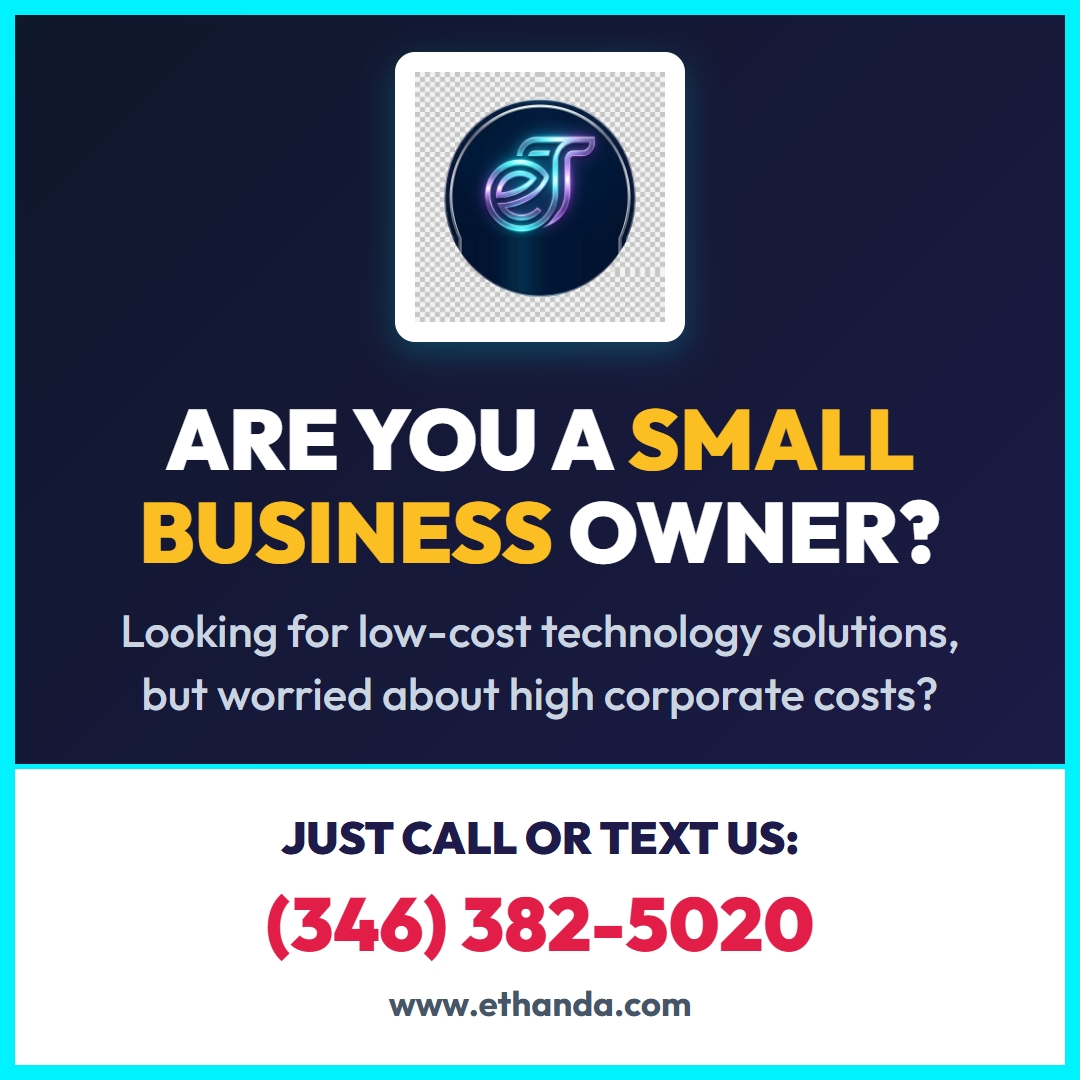
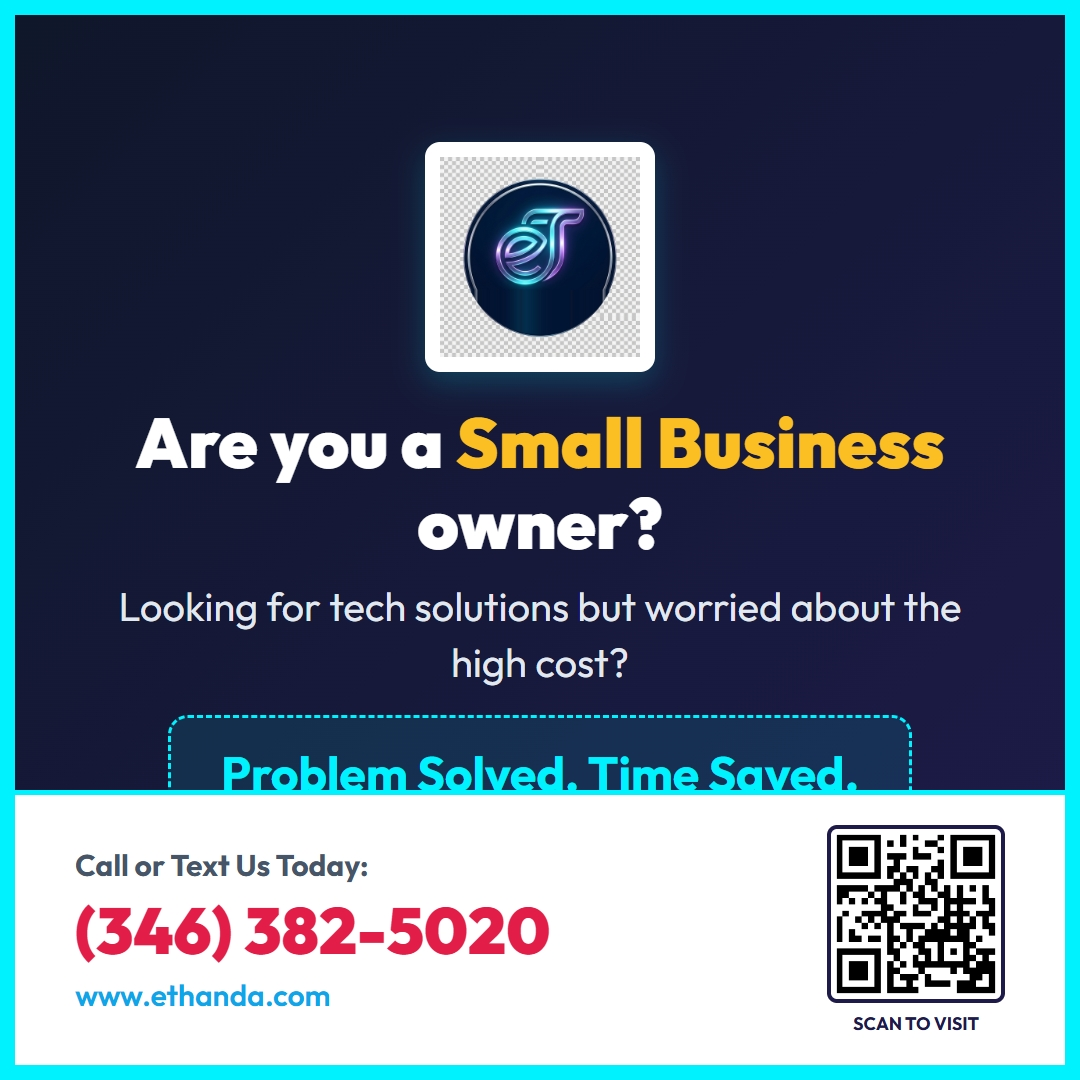
Update social ad with QR code and pricing

Changed region(s): [[0.0, 0.0306, 1.0, 0.9778], [0.3667, 0.9167, 0.6417, 0.9472], [0.0611, 0.9167, 0.3056, 0.9472]]

diff --git a/generate_social_ad.js b/generate_social_ad.js
@@ -22,7 +22,7 @@ const path = require('path');
         <head>
             <meta charset="UTF-8">
             <style>
-                @import url('https://fonts.googleapis.com/css2?family=Outfit:wght@300;500;700;900&display=swap');
+                @import url('https://fonts.googleapis.com/css2?family=Outfit:wght@300;400;600;700;900&display=swap');
                 body {
                     font-family: 'Outfit', sans-serif;
                     margin: 0;
@@ -41,40 +41,49 @@ const path = require('path');
                     border: 15px solid #00f2fe;
                 }
                 .logo {
-                    width: 250px;
-                    margin-bottom: 50px;
+                    width: 200px;
+                    margin-top: 40px;
+                    margin-bottom: 30px;
                     background: white;
-                    padding: 20px;
-                    border-radius: 20px;
+                    padding: 15px;
+                    border-radius: 15px;
                     box-shadow: 0 10px 30px rgba(0, 242, 254, 0.2);
                 }
                 h1 {
-                    font-size: 85px;
+                    font-size: 70px;
                     font-weight: 900;
-                    margin: 0 0 20px 0;
-                    line-height: 1.1;
+                    margin: 0 0 15px 0;
+                    line-height: 1.15;
                     color: white;
-                    text-transform: uppercase;
                 }
                 .highlight-yellow {
-                    color: #fbbf24; /* Bright yellow for extreme attention */
+                    color: #fbbf24;
                 }
                 .pain-point {
-                    font-size: 45px;
-                    font-weight: 500;
-                    color: #cbd5e1;
-                    margin: 0 80px 40px 80px;
+                    font-size: 40px;
+                    font-weight: 400;
+                    color: #e2e8f0;
+                    margin: 0 80px 25px 80px;
                     line-height: 1.4;
                 }
                 .solution {
                     background: rgba(0, 242, 254, 0.1);
                     border: 3px dashed #00f2fe;
-                    padding: 30px 60px;
+                    padding: 25px 50px;
                     border-radius: 20px;
-                    font-size: 55px;
+                    font-size: 48px;
                     font-weight: 700;
                     color: #00f2fe;
-                    margin-bottom: 60px;
+                    margin-bottom: 25px;
+                }
+                .pricing {
+                    font-size: 45px;
+                    font-weight: 700;
+                    color: #fbbf24;
+                    margin-bottom: 35px;
+                    background: rgba(251, 191, 36, 0.15);
+                    padding: 15px 40px;
+                    border-radius: 50px;
                 }
                 .cta-container {
                     background: white;
@@ -82,47 +91,77 @@ const path = require('path');
                     width: 100%;
                     position: absolute;
                     bottom: 0;
-                    padding: 40px 0;
+                    padding: 30px 60px;
                     display: flex;
-                    flex-direction: column;
+                    justify-content: space-between;
                     align-items: center;
                     border-top: 5px solid #00f2fe;
+                    box-sizing: border-box;
+                }
+                .cta-text-area {
+                    text-align: left;
                 }
                 .call-text {
-                    font-size: 45px;
-                    font-weight: 900;
-                    margin-bottom: 10px;
-                }
-                .phone-number {
-                    font-size: 75px;
-                    font-weight: 900;
-                    color: #e11d48; /* Red to pop out */
-                    margin-bottom: 10px;
-                }
-                .website {
-                    font-size: 35px;
+                    font-size: 30px;
                     font-weight: 700;
                     color: #475569;
+                    margin-bottom: 5px;
+                }
+                .phone-number {
+                    font-size: 65px;
+                    font-weight: 900;
+                    color: #e11d48;
+                    margin-bottom: 5px;
+                }
+                .website {
+                    font-size: 30px;
+                    font-weight: 600;
+                    color: #0ea5e9;
+                }
+                .qr-code {
+                    width: 160px;
+                    height: 160px;
+                    border: 4px solid #1e1b4b;
+                    border-radius: 10px;
+                    padding: 5px;
+                    background: white;
+                }
+                .qr-label {
+                    font-size: 18px;
+                    font-weight: 700;
+                    color: #1e1b4b;
+                    margin-top: 5px;
+                    text-align: center;
                 }
             </style>
         </head>
         <body>
             <img src="${logoDataUri}" class="logo" />
             
-            <h1>ARE YOU A <span class="highlight-yellow">SMALL BUSINESS</span> OWNER?</h1>
+            <h1>Are you a <span class="highlight-yellow">Small Business</span> owner?</h1>
             
             <div class="pain-point">
-                Looking for low-cost technology solutions, but worried about high corporate costs?
+                Looking for tech solutions but worried about the high cost?
             </div>
             
             <div class="solution">
-                Don't worry. Problem Solved.<br>Time Saved.
+                Problem Solved. Time Saved.
+            </div>
+
+            <div class="pricing">
+                Complete Websites Start at $99
             </div>
             
             <div class="cta-container">
-                <div class="call-text">JUST CALL OR TEXT US:</div>
-                <div class="phone-number">(346) 382-5020</div>
-                <div class="website">www.ethanda.com</div>
+                <div class="cta-text-area">
+                    <div class="call-text">Call or Text Us Today:</div>
+                    <div class="phone-number">(346) 382-5020</div>
+                    <div class="website">www.ethanda.com</div>
+                </div>
+                <div>
+                    <img src="https://api.qrserver.com/v1/create-qr-code/?size=200x200&data=https://www.ethanda.com" class="qr-code" />
+                    <div class="qr-label">SCAN TO VISIT</div>
+                </div>
             </div>
         </body>
         </html>
